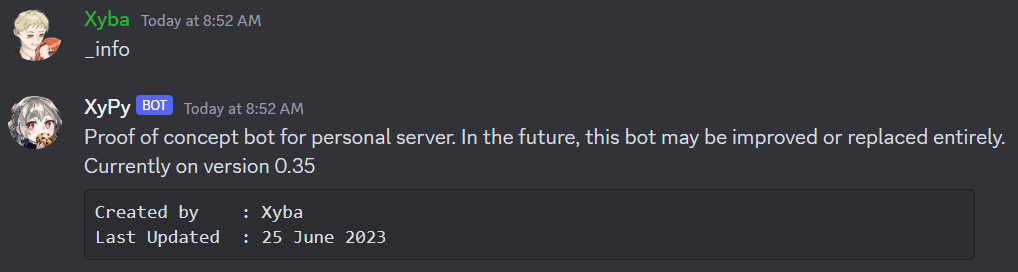
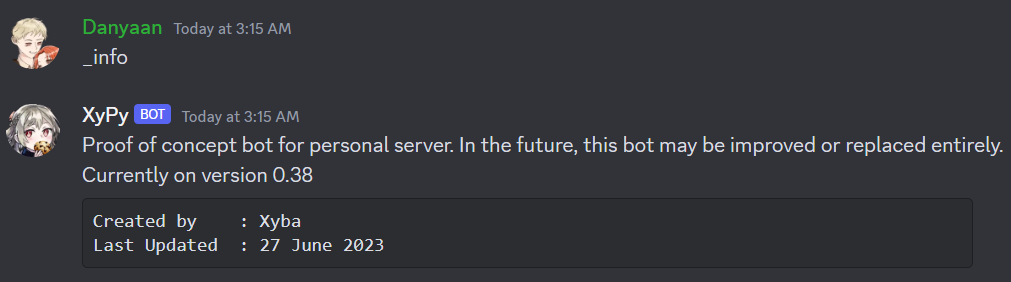
Add non-private functionality from Vizard

Changed region(s): [[0.0, 0.3529, 1.0, 0.6471], [0.0, 0.0294, 0.3066, 0.2647], [0.092, 0.7647, 0.3986, 0.9118]]

diff --git a/Discord Bot/XyPy/XyCogs/MiscStuff.py b/Discord Bot/XyPy/XyCogs/MiscStuff.py
@@ -1,5 +1,5 @@
-import discord
 from discord.ext import commands
+import asyncio
 import wikipedia
 
 ###############################################################################
@@ -8,6 +8,29 @@ class MiscStuff(commands.Cog):
   
   def __init__(self, bot):
       self.bot = bot
+  
+  @commands.command(
+    help  = 'Deletes the last X messages',
+    brief = 'cleans messages'
+  )
+  async def purge(self, ctx, *args):
+    try:
+      if int(args[0]) == float(args[0]):
+        context = int(args[0])
+      if 0 < context < 101:
+        pass
+      else:
+        raise
+    except:
+      await ctx.channel.send('Please input a integer greater than 0 and maximum of 100')
+    await ctx.channel.send('XyPy will delete the last {} messages in 5 seconds, awaiting no if cancel is desired'.format(context))
+    
+    try:
+      opt_to_cancel = await self.bot.wait_for('message', timeout = 5)
+      if opt_to_cancel.content.lower() == 'no':
+        await ctx.channel.send('Purging cancelled')
+    except asyncio.TimeoutError:
+      await ctx.channel.purge(limit = context + 2)
   
   @commands.command(
     help  = 'basic syntax: _wiki Query\nplanned optional syntax: after Query, iso 639-1 two letter country code for language',

diff --git a/Discord Bot/XyPy/XyCogs/Information.py b/Discord Bot/XyPy/XyCogs/Information.py
@@ -15,8 +15,8 @@ class Information(commands.Cog):
   async def info(self, ctx):
     await ctx.channel.send(
       '''
-      Proof of concept bot for personal server. In the future, this bot may be improved or replaced entirely. Currently on version 0.35'''
-      + '```Created by\t: Xyba\nLast Updated  : 25 June 2023```')
+      Proof of concept bot for personal server. In the future, this bot may be improved or replaced entirely. Currently on version 0.38'''
+      + '```Created by\t: Xyba\nLast Updated  : 27 June 2023```')
 
 async def setup(bot):
   await bot.add_cog(Information(bot))

diff --git a/Discord Bot/XyPy/README.md b/Discord Bot/XyPy/README.md
@@ -1,5 +1,5 @@
 # XyPy
-<img src="https://img.shields.io/badge/Language-English-D5AE22"> <img src="https://img.shields.io/badge/Last Update-25/06/2023-0A7BBC"> <img src="https://img.shields.io/badge/Bot Status-Working-2CB037"> <img src="https://img.shields.io/badge/Last Bot Test-25/06/2023-2CB037">
+<img src="https://img.shields.io/badge/Language-English-D5AE22"> <img src="https://img.shields.io/badge/Last Update-27/06/2023-0A7BBC"> <img src="https://img.shields.io/badge/Bot Status-Working-2CB037"> <img src="https://img.shields.io/badge/Last Bot Test-27/06/2023-2CB037">
 
 ![Information](images/Information.png)
 
